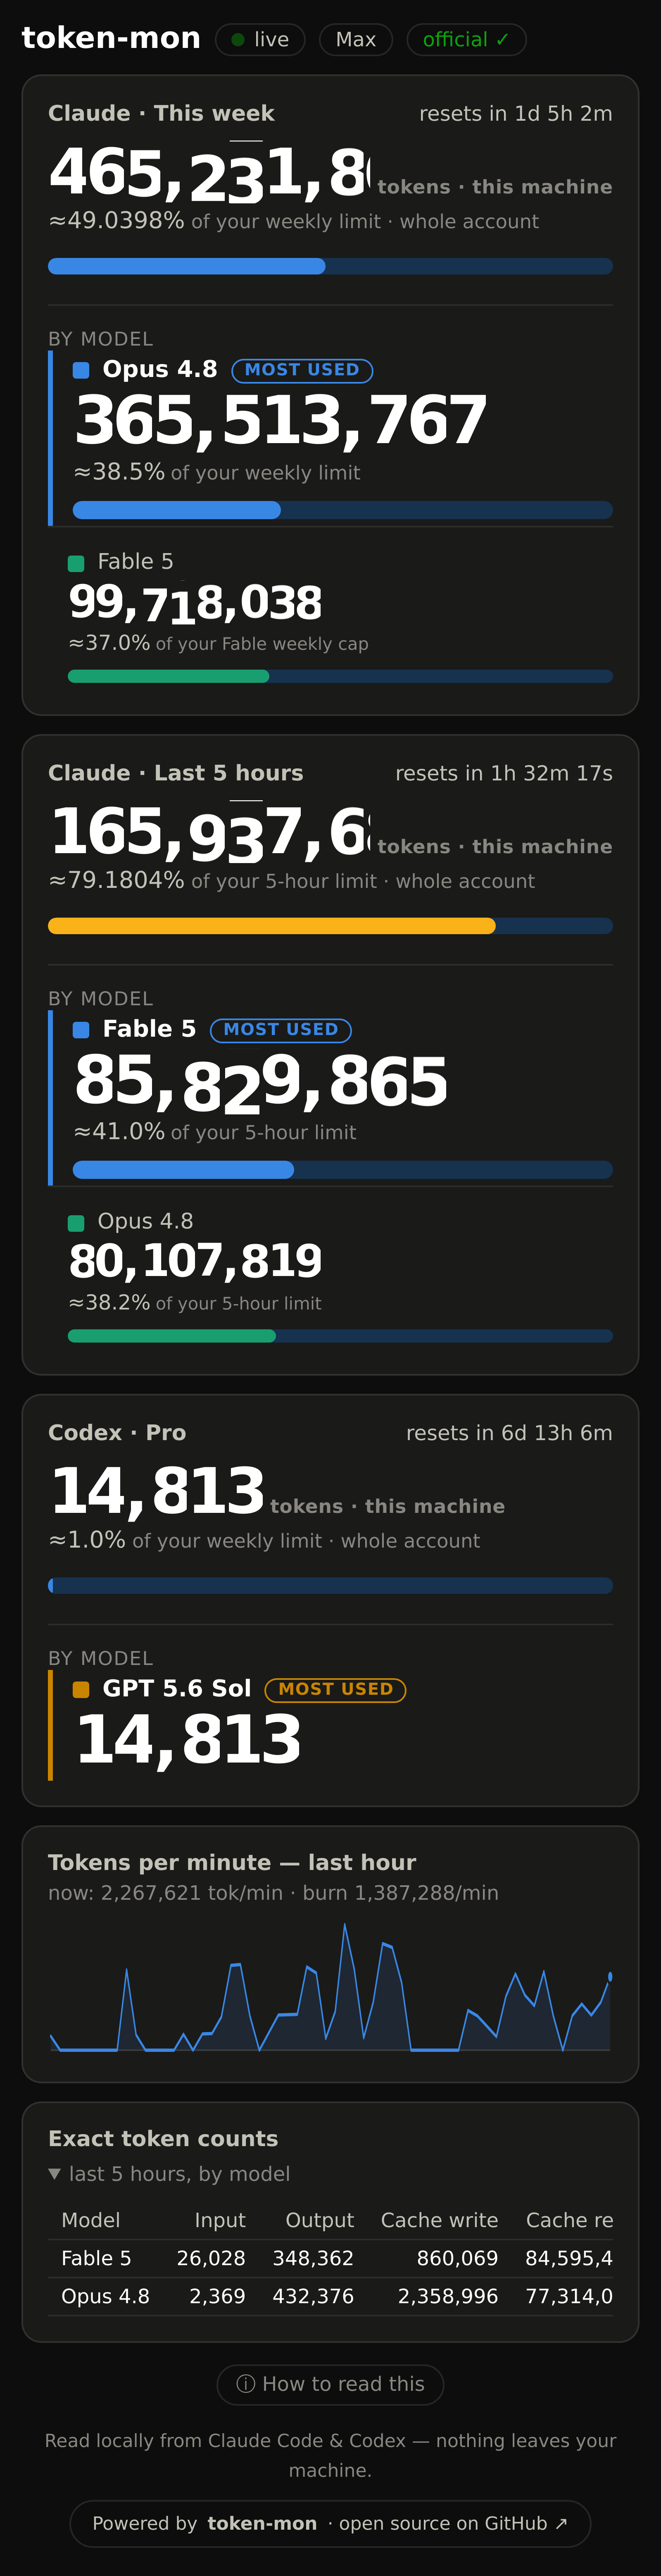
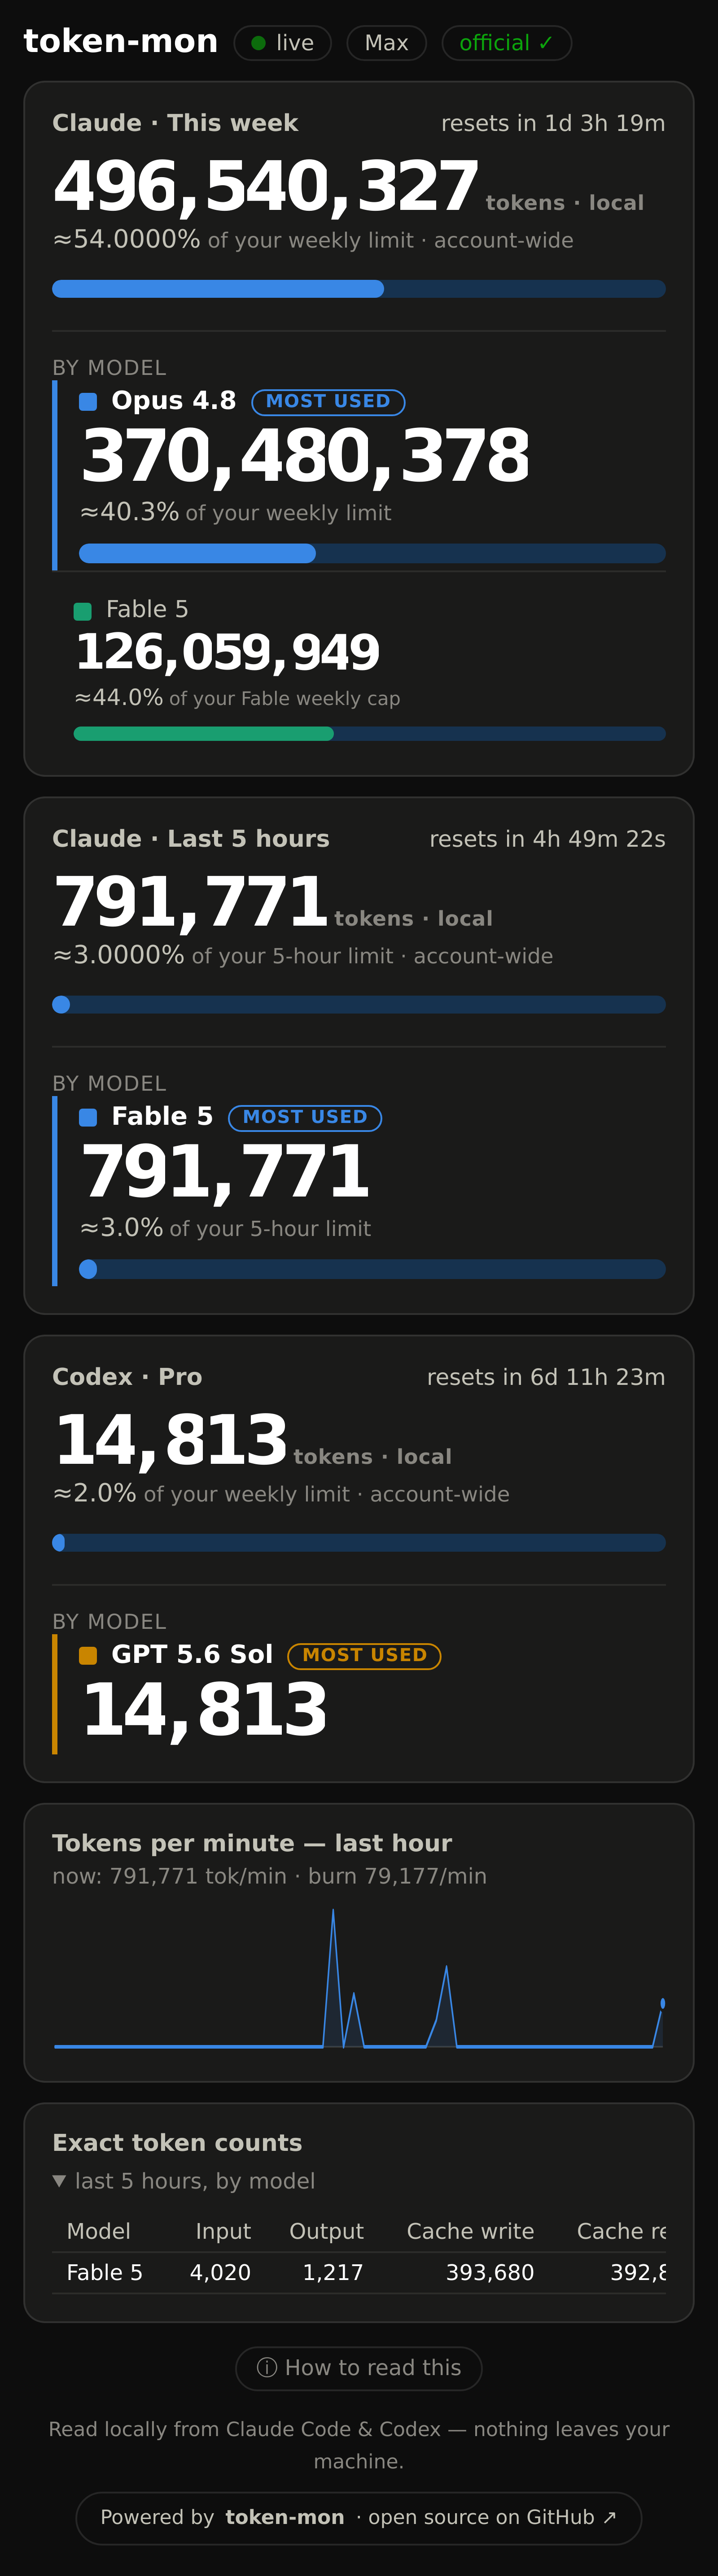
Wording: "tokens · local" and "limit · account-wide"
Claude-Session: https://claude.ai/code/session_01XbNfyBsCw2YkS5ZYWFRxGC

diff --git a/index.html b/index.html
@@ -139,8 +139,8 @@
   <!-- THIS WEEK — total, limit %, and by-model breakdown, all in one card -->
   <div class="card">
     <div class="row-between"><div class="label">Claude · This week</div><div class="reset" id="wkReset"></div></div>
-    <div class="hero-num"><span class="od" id="wkTok"></span><span class="unit">tokens · this machine</span></div>
-    <div class="hero-pct">≈<span id="wkPctV">–</span>%<small> of your weekly limit · whole account</small></div>
+    <div class="hero-num"><span class="od" id="wkTok"></span><span class="unit">tokens · local</span></div>
+    <div class="hero-pct">≈<span id="wkPctV">–</span>%<small> of your weekly limit · account-wide</small></div>
     <div class="meter"><div class="fill" id="wkFill"></div></div>
     <div class="bymodel-head">by model</div>
     <div id="wkModelWrap"></div>
@@ -149,8 +149,8 @@
   <!-- LAST 5 HOURS — same shape -->
   <div class="card">
     <div class="row-between"><div class="label">Claude · Last 5 hours</div><div class="reset" id="sessReset"></div></div>
-    <div class="hero-num"><span class="od" id="sessTok"></span><span class="unit">tokens · this machine</span></div>
-    <div class="hero-pct">≈<span id="sessPctV">–</span>%<small> of your 5-hour limit · whole account</small></div>
+    <div class="hero-num"><span class="od" id="sessTok"></span><span class="unit">tokens · local</span></div>
+    <div class="hero-pct">≈<span id="sessPctV">–</span>%<small> of your 5-hour limit · account-wide</small></div>
     <div class="meter"><div class="fill" id="sessFill"></div></div>
     <div class="bymodel-head">by model</div>
     <div id="modelWrap"></div>
@@ -159,8 +159,8 @@
   <!-- CODEX (OpenAI) — same shape, shown when Codex is installed -->
   <div class="card" id="cxCard" style="display:none">
     <div class="row-between"><div class="label">Codex · <span id="cxPlan">–</span></div><div class="reset" id="cxReset"></div></div>
-    <div class="hero-num"><span class="od" id="cxTok"></span><span class="unit">tokens · this machine</span></div>
-    <div class="hero-pct">≈<span id="cxPctV">–</span>%<small> of your <span id="cxWin">weekly</span> limit · whole account</small></div>
+    <div class="hero-num"><span class="od" id="cxTok"></span><span class="unit">tokens · local</span></div>
+    <div class="hero-pct">≈<span id="cxPctV">–</span>%<small> of your <span id="cxWin">weekly</span> limit · account-wide</small></div>
     <div class="meter"><div class="fill" id="cxFill"></div></div>
     <div class="bymodel-head" id="cxByHead" style="display:none">by model</div>
     <div id="cxModelWrap"></div>
@@ -192,7 +192,7 @@
       take the official percentage Claude reports and sharpen it with your exact token counts.</p>
       <p><b>Per-model %.</b> Each model shows how much of the limit that actually constrains it you've used —
       its own weekly cap if it has one, otherwise its use of the shared window quota. Not a share of tokens.</p>
-      <p><b>This machine vs your account.</b> The <b>≈percentages are account-wide</b> — they're the official
+      <p><b>Local vs account-wide.</b> The <b>≈percentages are account-wide</b> — they're the official
       figures, so they include every device, the web app, and mobile. The <b>token counts cover only this
       machine</b> (what its local logs contain). If you also use Claude or Codex elsewhere, the percentage will
       read higher than these token counts alone would suggest — that's expected, not a bug.</p>